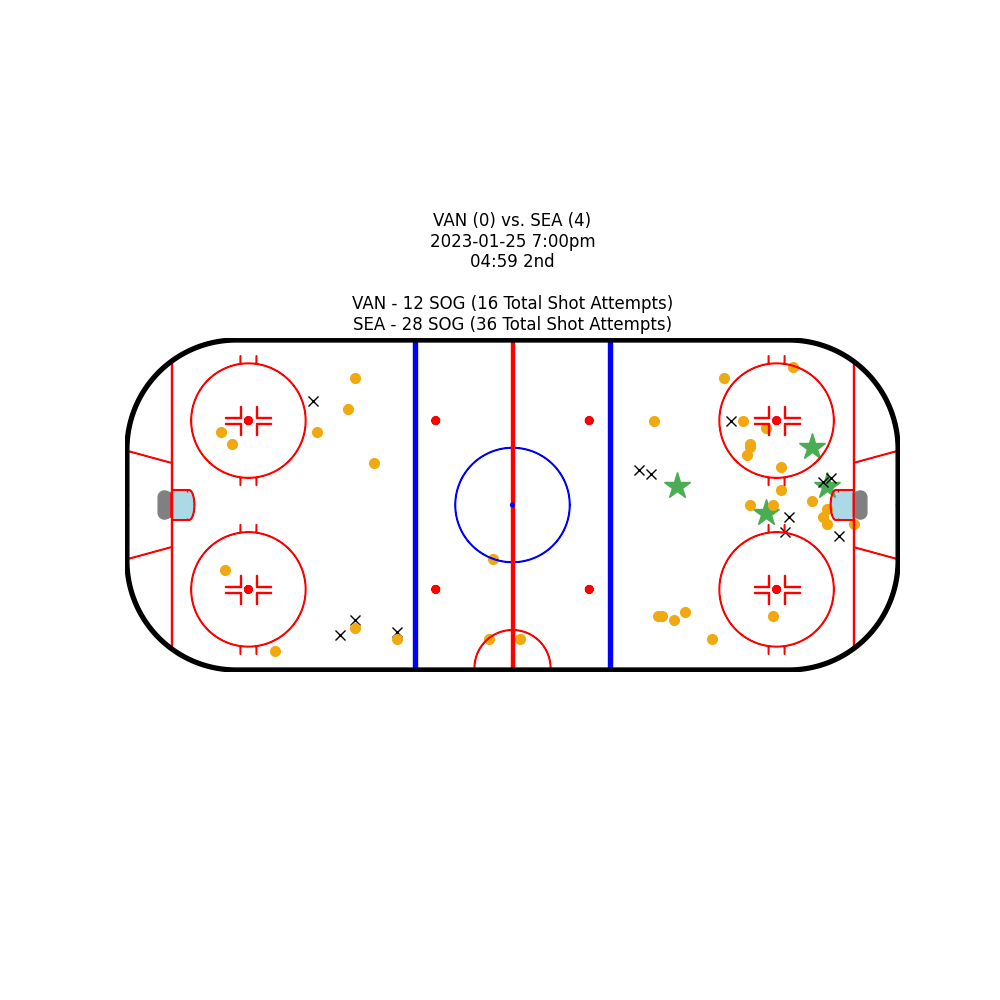
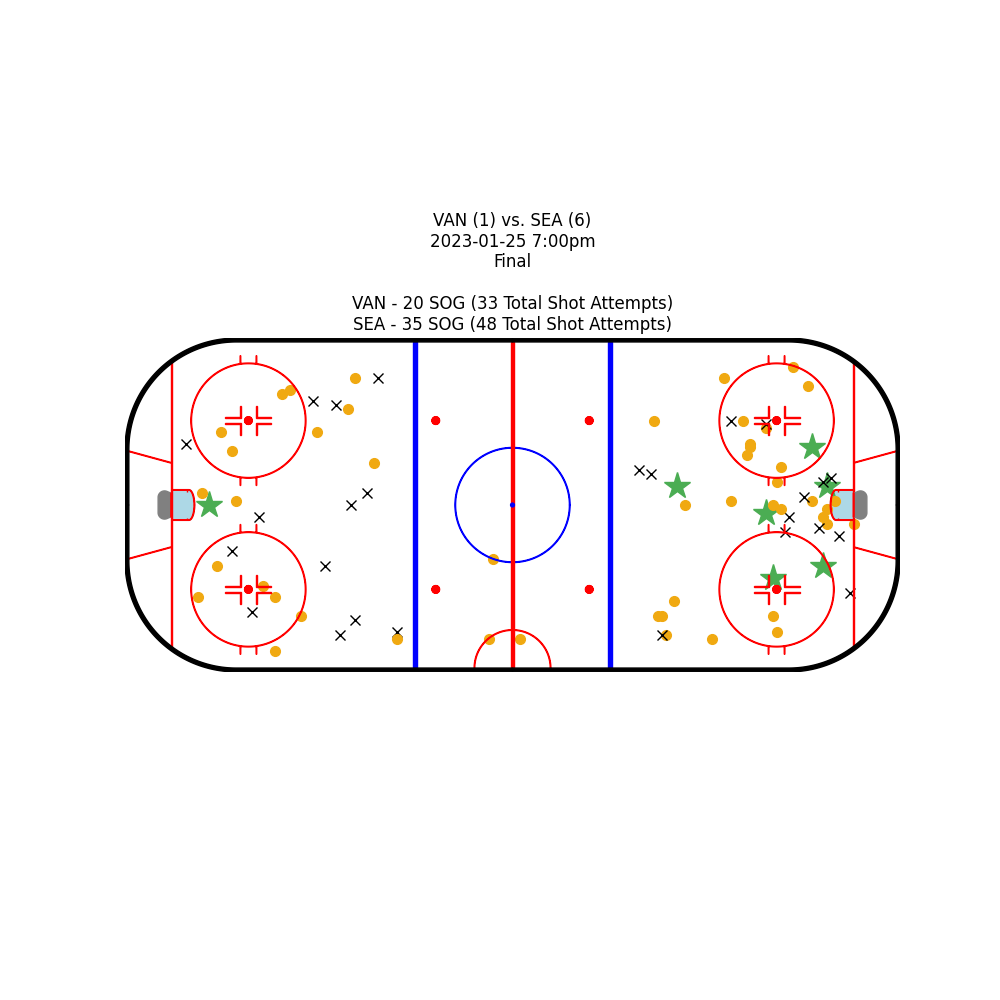
Add shot chart and details for tonight's final

diff --git a/examples/NHLShotChart.py b/examples/NHLShotChart.py
@@ -63,7 +63,7 @@ NHL_TEAM_ID_SEATTLE_KRAKEN = 55
 # Expected 27 SOG for COL / 27 SOG for SEA - COL wins 2-1 in SO
 
 NHL_GAME_ID = 2022020770  # 2023.01.25 => VAN @ SEA - https://www.nhl.com/gamecenter/van-vs-sea/2023/01/25/2022020770/ice-tracker/plays#game=2022020770,game_state=live,lock_state=live,game_tab=plays
-# Expected XX SOG for VAN / XX SOG for SEA - Joined game in-progress at the end of the first period
+# Expected 20 SOG for VAN / 35 SOG for SEA - SEA wins 6-1
 
 
 # Utility method to convert an API datetime string to a local format
